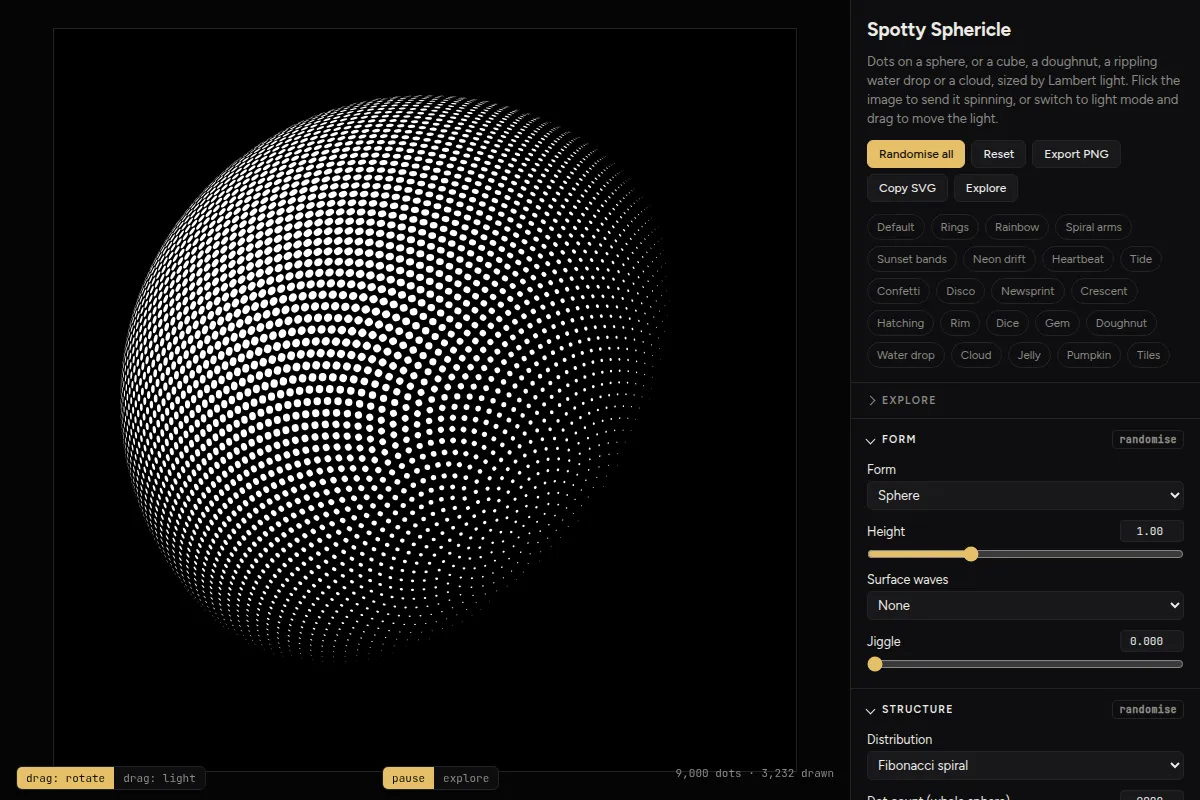
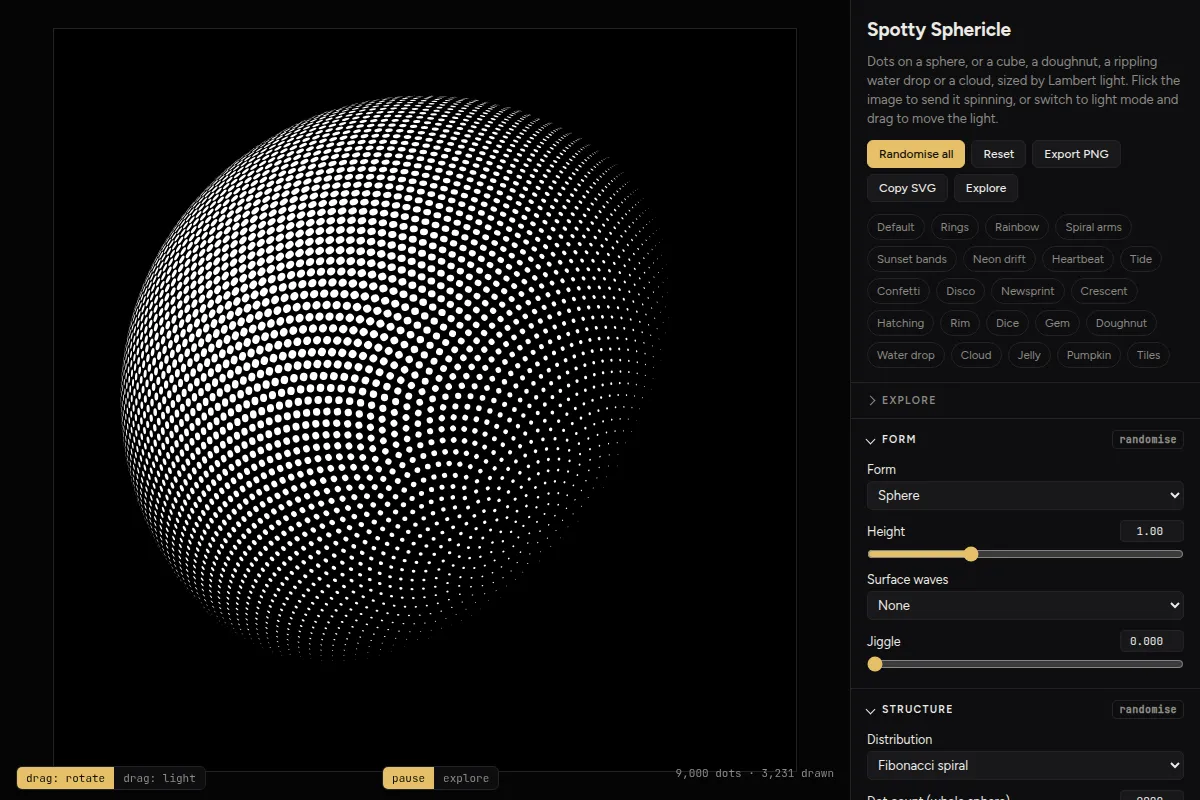
deploy: Jermolene-blog/blog@e5ab03bb7f58f5ba0ff687d9ef4da01d34c9649d

Changed region(s): [[0.0925, 0.0938, 0.5242, 0.8125]]

diff --git a/toys/vectorious/index.html b/toys/vectorious/index.html
@@ -13,8 +13,9 @@
   repeat is found (by FFT cross-correlation, in all eight orientations, so
   round every side of a border), aligned to a fraction of a pixel, and
   median-stacked into one clean tile exactly a period wide, mirror-symmetrised
-  where the ornament is symmetric. That traces as a seamless repeat, a strip or
-  an SVG <pattern>. All of the preprocessing and frieze code is written for
+  where the ornament is symmetric. Rules in the tile are made dead straight
+  and rows of dots equal circles at an even pitch, rather than traced. That
+  traces as a seamless repeat, a strip or an SVG <pattern>. All of the preprocessing and frieze code is written for
   this page.
 
   This file embeds potrace.js (verbatim apart from one added function, which
@@ -439,6 +440,11 @@
         </select>
       </div>
       <div class="control">
+        <label>Fit</label>
+        <label class="inline"><input id="fitRules" type="checkbox" checked> Straight rules</label>
+        <label class="inline"><input id="fitDots" type="checkbox" checked> Dots as circles</label>
+      </div>
+      <div class="control">
         <label for="stripCount">Repeats in strip</label>
         <input id="stripCount" type="number" min="1" max="50" value="7">
       </div>
@@ -480,8 +486,8 @@
   <a href="https://github.com/mozilla/pdf.js">pdf.js</a>, all likewise embedded.
   The preprocessing (Lab channels, median filter, bicubic upscaling, Gaussian blur
   and Sauvola adaptive thresholding) and frieze mode (finding, aligning and
-  median-stacking the repeats of a band into one seamless tile) are written for
-  this page.
+  median-stacking the repeats of a band into one seamless tile, with its rules
+  and rows of dots fitted rather than traced) are written for this page.
   All processing happens locally in your browser; images are never uploaded.
 </footer>
 
@@ -4837,7 +4843,7 @@ var JpxImage = (function () {
       selBtn = $("selectRepeat"), overlay = $("overlay"), allOrient = $("allOrient"),
       symSel = $("symmetry"), stripCount = $("stripCount"), dlTile = $("dlTile"),
       dlStrip = $("dlStrip"), dlPattern = $("dlPattern"), clearBtn = $("clearFrieze"),
-      friezeStats = $("friezeStats"), stackCanvas = $("stack"), previewHost = $("previewHost");
+      friezeStats = $("friezeStats"), fitRules = $("fitRules"), fitDotsChk = $("fitDots"), stackCanvas = $("stack"), previewHost = $("previewHost");
 
   // Larger images are scaled down before tracing. This is a budget on total
   // pixels rather than on the longest side, because what constrains it is the
@@ -5836,6 +5842,125 @@ var JpxImage = (function () {
     return { hits: hits, tw: tw, th: th, P: P, stack: st, rotated: rotated };
   }
 
+  // --- Fitting primitives ----------------------------------------------
+  // Rules and rows of dots are struck with tools that don't wobble, so in a
+  // frieze tile they're better fitted than traced: a rule dead straight, the
+  // dots of a row equal circles at an even pitch. Both work on the
+  // thresholded bitmap of the tile laid out several times over, w×h pixels
+  // with a period of N, before it's traced. The second copy is the one
+  // measured, being clear of the blur's handling of the outer edges.
+
+  // A rule is a run of rows at least 95% foreground right across the tile.
+  // Its body takes in the rows either side that are still more than half
+  // foreground, and is filled solid. The next few rows beyond (up to
+  // `margin`) are its ragged edge, and are cleared, except in the columns
+  // where something carries on well beyond them (as far again), such as a
+  // stem growing out of the rule, which are filled so that it stays joined.
+  function straightenRules(bits, w, h, N, margin) {
+    var frac = new Float32Array(h), claimed = new Uint8Array(h), count = 0, x, y, r, s;
+    for (y = 0; y < h; y++) {
+      for (s = 0, x = 0; x < N; x++) { s += bits[y * w + N + x]; }
+      frac[y] = s / N;
+    }
+    function edge(from, dir) {
+      var rows = [], k;
+      for (k = 1; k <= margin; k++) {
+        r = from + dir * k;
+        if (r < 0 || r >= h || claimed[r] || frac[r] < 0.02) { break; }
+        rows.push(r);
+      }
+      if (!rows.length) { return; }
+      var beyond = rows[rows.length - 1] + dir;
+      if (beyond >= 0 && beyond < h && claimed[beyond]) { return; }   // another rule: leave the gap
+      for (x = 0; x < w; x++) {
+        var keep = 1;
+        for (k = 0; k < margin && keep; k++) {
+          r = beyond + dir * k;
+          keep = r >= 0 && r < h ? bits[r * w + x] : (k ? keep : 0);
+        }
+        for (k = 0; k < rows.length; k++) { bits[rows[k] * w + x] = keep; }
+      }
+      rows.forEach(function (q) { claimed[q] = 1; });
+    }
+    for (y = 0; y < h; y++) {
+      if (frac[y] < 0.95 || claimed[y]) { continue; }
+      var a = y, b = y;
+      while (b + 1 < h && frac[b + 1] >= 0.5) { b++; }
+      while (a > 0 && frac[a - 1] >= 0.5 && !claimed[a - 1]) { a--; }
+      for (r = a; r <= b; r++) { claimed[r] = 1; bits.fill(1, r * w, (r + 1) * w); }
+      edge(a, -1);
+      edge(b, 1);
+      count++;
+      y = b;
+    }
+    return count;
+  }
+
+  // Dots are components of the bitmap that are small, round and solid: no
+  // more than a quarter of the tile's height across, nearly as tall as wide,
+  // filling about π/4 of their bounding box as a disc does, and clear of the
+  // tile's top and bottom. They're cleared from the bitmap and returned as
+  // circles of the same area. The dots in a row (at much the same height)
+  // share one radius if they're of a size, and if they're nearly evenly
+  // spaced they're spaced exactly evenly, a whole number of them to the
+  // period.
+  function fitDots(bits, w, h, N) {
+    var label = new Int32Array(w * h), comps = [], stack = [], i, x, y;
+    for (i = 0; i < w * h; i++) {
+      if (!bits[i] || label[i]) { continue; }
+      var c = { id: comps.length + 1, area: 0, sx: 0, sy: 0, x0: w, x1: 0, y0: h, y1: 0 };
+      comps.push(c);
+      label[i] = c.id;
+      stack.push(i);
+      while (stack.length) {
+        var j = stack.pop(), jx = j % w, jy = (j - jx) / w;
+        c.area++; c.sx += jx + 0.5; c.sy += jy + 0.5;
+        if (jx < c.x0) { c.x0 = jx; } if (jx > c.x1) { c.x1 = jx; }
+        if (jy < c.y0) { c.y0 = jy; } if (jy > c.y1) { c.y1 = jy; }
+        [jx > 0 ? j - 1 : -1, jx < w - 1 ? j + 1 : -1, j - w, j + w].forEach(function (q) {
+          if (q >= 0 && q < w * h && bits[q] && !label[q]) { label[q] = c.id; stack.push(q); }
+        });
+      }
+    }
+    var dots = comps.filter(function (c) {
+      var bw = c.x1 - c.x0 + 1, bh = c.y1 - c.y0 + 1, fill = c.area / (bw * bh);
+      return c.y0 > 0 && c.y1 < h - 1 && c.area >= 12 && Math.max(bw, bh) <= h / 4 &&
+          bw / bh > 0.75 && bw / bh < 1.33 && fill > 0.65 && fill < 0.9;
+    });
+    var isDot = new Uint8Array(comps.length + 1);
+    dots.forEach(function (c) { isDot[c.id] = 1; });
+    for (i = 0; i < w * h; i++) { if (isDot[label[i]]) { bits[i] = 0; } }
+
+    // Measure the rows of dots in the second copy, by centre
+    var mid = dots.map(function (c) {
+      return { x: c.sx / c.area - N, y: c.sy / c.area, r: Math.sqrt(c.area / Math.PI) };
+    }).filter(function (d) { return d.x >= 0 && d.x < N; });
+    mid.sort(function (a, b) { return a.y - b.y; });
+    var rows = [], circles = [];
+    mid.forEach(function (d) {
+      var row = rows[rows.length - 1];
+      if (row && d.y - row.last < 0.5 * d.r) { row.dots.push(d); } else { rows.push(row = { dots: [d] }); }
+      row.last = d.y;
+    });
+    rows.forEach(function (row) {
+      var ds = row.dots.sort(function (a, b) { return a.x - b.x; }), k = ds.length,
+          rs = ds.map(function (d) { return d.r; }), rMean = rs.reduce(function (a, b) { return a + b; }) / k,
+          yMean = ds.reduce(function (a, d) { return a + d.y; }, 0) / k,
+          sameSize = (Math.max.apply(null, rs) - Math.min.apply(null, rs)) < 0.3 * rMean,
+          pitch = N / k, offs = ds.map(function (d, n) { return d.x - n * pitch; }),
+          off = offs.reduce(function (a, b) { return a + b; }) / k,
+          even = offs.every(function (o) { return Math.abs(o - off) < 0.25 * pitch; });
+      ds.forEach(function (d, n) {
+        var cx = even ? off + n * pitch : d.x, cy = even ? yMean : d.y, r = sameSize ? rMean : d.r;
+        for (var copy = 0; copy * N < w; copy++) {
+          var px = cx + copy * N;
+          if (px + r > 0 && px - r < w) { circles.push({ x: px, y: cy, r: r }); }
+        }
+      });
+    });
+    return { circles: circles, perPeriod: mid.length };
+  }
+
   // Traces `count` periods of the tile seamlessly: lays out count + 2 copies
   // side by side, blurs and thresholds them, traces, keeps the curves that
   // reach into the middle count periods and shifts them to start at 0. The
@@ -5853,6 +5978,8 @@ var JpxImage = (function () {
     var work = upscaleAndBlur(src, w, M, w, M, opts.sigma);
     var t = opts.mode === "manual" ? opts.threshold : clamp255(otsu(work.hist) + opts.offset);
     var bits = thresholdBits(work.data, w, M, t, opts.inv, null, 0), scale = tile.pitch;
+    var rules = opts.rules ? straightenRules(bits, w, M, N, Math.max(1, Math.round(0.75 / scale))) : 0,
+        dots = opts.dots ? fitDots(bits, w, M, N) : { circles: [], perPeriod: 0 };
     Potrace.loadBitmap(bits, w, M);
     Potrace.setParameter({
       turdsize: Math.round(opts.turdsize / (scale * scale)),
@@ -5873,7 +6000,13 @@ var JpxImage = (function () {
         return n++ % 2 ? s : (+s - P).toFixed(3);
       }).trim());
     });
-    return { d: kept.join(" "), threshold: t, height: M * scale };
+    dots.circles.forEach(function (c) {
+      var cx = c.x * scale - P, cy = num(c.y * scale), r = num(c.r * scale);
+      if (cx + c.r * scale < 0 || cx - c.r * scale > count * P) { return; }
+      kept.push("M " + num(cx - c.r * scale) + " " + cy + " A " + r + " " + r + " 0 1 0 " +
+          num(cx + c.r * scale) + " " + cy + " A " + r + " " + r + " 0 1 0 " + num(cx - c.r * scale) + " " + cy + " Z");
+    });
+    return { d: kept.join(" "), threshold: t, height: M * scale, rules: rules, dots: dots.perPeriod };
   }
 
   function num(v) { return String(+v.toFixed(3)); }
@@ -6026,7 +6159,8 @@ var JpxImage = (function () {
           fzKey = chanKey + "|" + [b.x, b.y, b.w, b.h].join(",") + "|" + allOrient.checked,
           symKey = fzKey + "|" + symSel.value,
           fzTraceKey = symKey + "|" + sig + "|" + mode + "|" + (mode === "manual" ? thr.value : "") +
-              "|" + off + "|" + inv + "|" + turd.value + "|" + alpha.value;
+              "|" + off + "|" + inv + "|" + turd.value + "|" + alpha.value +
+              "|" + fitRules.checked + "|" + fitDotsChk.checked;
       stages.push(
         { name: "fz", msg: "Finding the repeats…", key: function () { return fzKey; },
           run: function () { return analyseFrieze(cache.chan.value, chanKey, b, allOrient.checked); } },
@@ -6100,7 +6234,8 @@ var JpxImage = (function () {
   function friezeOptions() {
     return {
       sigma: +sigma.value, mode: modeSel.value, threshold: +thr.value, offset: +offset.value,
-      inv: invChk.checked, turdsize: +turd.value, alphamax: +alpha.value
+      inv: invChk.checked, turdsize: +turd.value, alphamax: +alpha.value,
+      rules: fitRules.checked, dots: fitDotsChk.checked
     };
   }
 
@@ -6124,7 +6259,9 @@ var JpxImage = (function () {
     friezeStats.textContent = fz.hits.length + " repeat" + (fz.hits.length === 1 ? "" : "s") +
         (fz.hits.length > 1 ? " (" + angles + ")" : "") + " · mean match " + mean.toFixed(2) +
         " · period " + fz.P.toFixed(1) + " px · mirror symmetry " + t.corr.toFixed(2) +
-        (t.on ? " (applied)" : " (not applied)") + " · threshold " + tr.threshold;
+        (t.on ? " (applied)" : " (not applied)") + " · threshold " + tr.threshold +
+        (tr.rules ? " · " + tr.rules + " rule" + (tr.rules === 1 ? "" : "s") + " straightened" : "") +
+        (tr.dots ? " · " + tr.dots + " dot" + (tr.dots === 1 ? "" : "s") + " per repeat fitted as circles" : "");
     drawStack(t.tile);
     $("stackFrame").style.setProperty("--frame-ar", t.tile.N + " / " + t.tile.M);
     $("previewFrame").style.setProperty("--frame-ar", 3 * t.tile.N + " / " + t.tile.M);
@@ -6401,6 +6538,8 @@ var JpxImage = (function () {
     showFrieze();
   });
   allOrient.addEventListener("change", scheduleTrace);
+  fitRules.addEventListener("change", scheduleTrace);
+  fitDotsChk.addEventListener("change", scheduleTrace);
   symSel.addEventListener("change", scheduleTrace);
 
   function stripLength() { return Math.max(1, Math.min(50, Math.round(+stripCount.value) || 1)); }

diff --git a/toys/sw.js b/toys/sw.js
@@ -25,7 +25,7 @@ responses can still be stored.
 "use strict";
 
 self.PRECACHE = {
-	"version": "cd5ac6572e506550",
+	"version": "5e56bd23617ae063",
 	"urls": [
 		"/toys/",
 		"/toys/apple-touch-icon.png",
